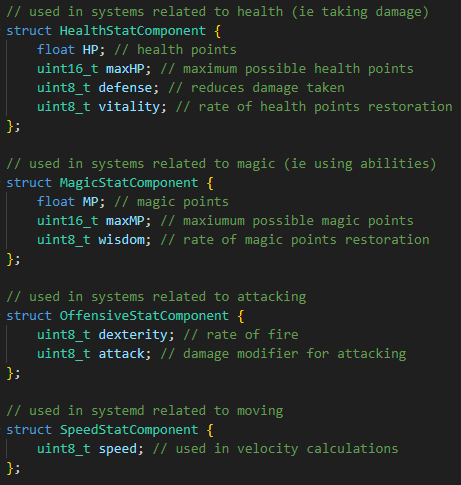
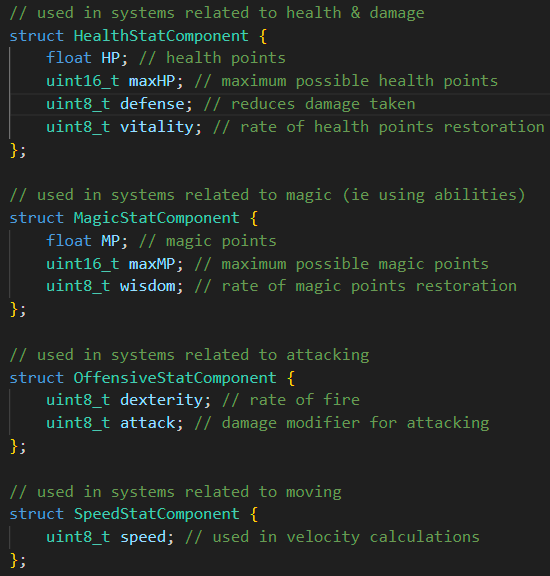
vecorization draft

diff --git a/src/components/Rotmgabe.jsx b/src/components/Rotmgabe.jsx
@@ -22,7 +22,7 @@ export const Rotmgabe = ({ className, visible }) => {
             <div className="passage-text">
                 The core of this project is an implementation of the Entity-Component-System (<a className="hover-image-text" href="https://en.wikipedia.org/wiki/Entity_component_system" target="_blank" rel="noopener noreferrer">ECS</a>) architectural pattern.
                 In this pattern, the game is composed of <strong>entities</strong> that have <strong>components</strong> with mutable states, which are updated by various <strong>systems</strong>.
-                This unqiue design optimizes CPU memory access, allowing the game to sustain hundreds of frames per second even under high computational load.
+                This unique design optimizes CPU memory access, allowing the game to sustain hundreds of frames per second even under high computational load.
                 Most professional game engines use ECS.
             </div>
             <div className="grid grid-cols-2 items-center justify-around gap-2">
@@ -58,7 +58,7 @@ export const Rotmgabe = ({ className, visible }) => {
             </div>
             <div className="flex flex-row items-center justify-center gap-22">
                 <div className="flex flex-col items-center justify-center gap-1">
-                    <div className="passage-text">Here is a visualization of the component pools. Notice how there is a pool for each type of component, and that each cell of a pool holds the component for a given entitiy.</div>
+                    <div className="passage-text">Here is a visualization of the component pools. Notice how there is a pool for each type of component, and that each cell of a pool holds the component for a given entity.</div>
                     <img className="rounded-image" src="/pools.drawio(1).png"></img>
                 </div>
             </div>
@@ -67,14 +67,14 @@ export const Rotmgabe = ({ className, visible }) => {
             </div>
             <div className="flex flex-col items-center justify-center gap-1">
                 <div className="passage-text">
-                    Component signatures are bitsets indexable by component id's.
+                    Component signatures are bitsets indexable by component id's:
                 </div>
                 <img className="rounded-image" src="/signature.png"></img>
                 <img className="rounded-image" src="/signatures.png"></img>
             </div>
             <div className="passage-text">
-                To exemplify pool access, here is sample code for adding a component to an entity (we simply add the component to the pool)
-                First, the component id is used to find the correct pool. Then the entity id and component data are passed to the pool, which inserts the component and records the location for later retrieval for this entity. We also update the entity's component signature: 
+                To exemplify pool access, here is sample code for adding a component to an entity.
+                First, the component id is used to find the correct pool. Then, the entity id and component data are passed to the pool, which inserts the component and records the location for later retrieval for this entity. We also update the entity's component signature: 
                 <img className="rounded-image" src="/addcomponent.png"></img>
             </div>
             <div className="passage-text">
@@ -101,7 +101,7 @@ export const Rotmgabe = ({ className, visible }) => {
                 As you can see, even if entities differ conceptually, they may still share a common subset of components.
             </div>
             <div className="passage-text">
-                This brings us to the system part of ECS, of which are responsible for updating the data in the components of entities. Systems are specialized and isolated, performing specific updates only for a specific group of entities. Each system maintains its own component signature, which serves as a set of requirements for being processed— If an entity's component signature contains all the components in the system's signature, it will be tracked and processed. All systems perform their updates each frame on every entity that they track: 
+                This brings us to the systems part of ECS, which are responsible for updating the data in components. Systems are specialized and isolated, performing specific updates only for a specific group of entities. Each system maintains its own component signature, which serves as a set of requirements for being processed— If an entity's component signature contains all the components in the system's signature, it will be tracked and processed. All systems perform their updates each frame on every entity that they track: 
             </div>
             <div className="flex flex-row items-center justify-center gap-22">
                 <div className="flex flex-col items-center justify-center gap-1">
@@ -131,7 +131,7 @@ export const Rotmgabe = ({ className, visible }) => {
             <div className="grid grid-cols-[55%_45%] items-center justify-center gap-8">
                 <div className="flex flex-col items-center justify-center gap-1">
                     <div className="passage-text">
-                        Here is an example of a movement system. From our entity examples above, only the projectile entity would be tracked by this system because only it has both the required position and velocity components:
+                        Here is an example of a linear movement system. From our entity examples above, only the projectile entity would be tracked by this system because only it has both the required position and velocity components:
                     </div>
                     <img className="rounded-image" src="/movementsystem.png"></img>
                 </div>
@@ -154,28 +154,50 @@ export const Rotmgabe = ({ className, visible }) => {
                     Contiguous component pools provide spatial and temporal locality during system updates. When a system reads a component for an entity, it actually loads an entire cache line (usually 64 bytes) of contiguous data from RAM into the CPU cache. Given that systems update all of their entities each frame, fetching components often results in cache hits because that data has already been loaded into the CPU cache, which is orders of magnitude faster than getting the data from RAM in the case of a cache miss.
                 </div>
                 <div className="passage-text">
-                    With this in mind, components are designed to be as small as possible. Smaller components mean more of them fit into a single cache line, maximizing the amount of useful data loaded into the CPU cache at once. Additionally, components are structured around system access patterns—ideally, to reduce cache misses, all the data in a component will be needed whenever it is loaded from memory. To illustrate this, I'll show how a player-statistics component would be designed in an object-oriented approach and constrast it with a data-oriented approach.
+                    With this in mind, components are designed to be as small as possible. Smaller components mean more of them fit into a single cache line, maximizing the amount of useful data loaded into the CPU cache at once. Additionally, components are structured around system access patterns—ideally, to reduce cache misses, all the data in a component will be needed whenever it is loaded from memory. To illustrate this, I'll show how a player-statistics component would be designed in an object-oriented approach and contrast it with a data-oriented approach:
                 </div>
                 <div className="grid grid-cols-2 items-start justify-center gap-12">
                     <div className="flex flex-col items-center justify-center gap-1">
-                        <div className="passage-text font-bold">Object-Oritented Design:</div>
+                        <div className="passage-text font-bold">Object-Oriented Design:</div>
                         <div className="passage-text">In Object-Oriented Design, we organize and add data fields to classes to represent real world objects or concepts that are intuitive for humans:</div>
                         <img className="rounded-image" src="/OOPstats.png"></img>
                     </div>
                     <div className="flex flex-col items-center justify-center gap-1">
-                        <div className="passage-text font-bold">Data-Oritented Design:</div>
+                        <div className="passage-text font-bold">Data-Oriented Design:</div>
                         <div className="passage-text">In Data-Oriented Design, we organize and add data fields to structs based on the temporal and spatial locality of the fields, and keep size as low as possible:</div>
                         <img className="rounded-image" src="/DODstats.png"></img>
                     </div>
                 </div>
                 <div className="passage-text">
-                    As you can see, the data-oriented approach favors breaking large structs into smaller, focused ones. This isn’t a criticism of object-oriented programming, but rather an observation that data-oriented design offers better performance in the context of ECS.
+                    As you can see, the data-oriented approach favors breaking large structs into smaller, focused ones. This isn't a criticism of object-oriented programming, but rather an observation that data-oriented design offers better performance in the context of ECS.
                 </div>
             </div>
             <div className="flex flex-col items-center justify-center gap-4">
-                <BaseCard title="2) Vectorization"></BaseCard>
+                <BaseCard title="2) Auto-Vectorization & Branch Predictability"></BaseCard>
                 <div className="passage-text">
-                    Blah Blah Blah 
+
+                    -- explain auto-vectorization (can only happen if the next x iterations are also the next x in contiguous memory.)
+                    -- explain compiler dependence, gather operations hurt this, performance tradeoffs, different ecs implementations
+                    -- explain branch predictability, simplicity of system bodies
+                    -- NEED TO SEE IF MY IMPLEMENTATION IS LOADING SIMD INSTRUCTIONS!!! COMPILE IT AND LOOK
+                    <br></br>
+                    <br></br>
+                    early draft to take ideas from, but use above:
+                    Systems are designed to perform their updates by iterating over contiguous memory with minimal logic to allow for auto-vectorization and improved branch predictability.
+                    When we load from contiguous memory with compiler optimizations, the compiler is likely to load data into single-instruction-multiple-data (SIMD) registers, which can perform instructions on multiple pieces of data at the same time.
+
+
+                </div>
+                <div className="passage-text">
+                    Additionally, keeping system logic simple allows the CPU's branch predictor to operate more effectively. 
+                </div>
+                <div className="passage-text">                   
+                    idToIndex hurts vectorization, mention this. oh well 
+                    vectorization can only happen if the next x iterations are also the next x in contiguous memory.
+                    data[entityIdToIndex[i]] is effectively a gather: the elements could be anywhere in memory. Compilers often don’t auto-vectorize gather patterns unless they’re confident the hardware supports fast SIMD gathers.
+                </div>
+                <div className="passage-text">
+                    compare a movement system with different branching for oscillating, parabolic, boomerang, compare to all of those being isolated
                 </div>
             </div>
             <div className="flex flex-col items-center justify-center gap-4">
@@ -185,6 +207,9 @@ export const Rotmgabe = ({ className, visible }) => {
                 </div>
             </div>
             <div className="passage-text">
+                Short passage about how performance is hardware dependent and always a tradeoff (performance lottery). Also maybe something about GPU?
+            </div>
+            <div className="passage-text">
                 game loop
                 Registry: entity id mgmt, killing/creating entities, data hole filling (remove component), managing pools
                 numeric types
@@ -192,6 +217,7 @@ export const Rotmgabe = ({ className, visible }) => {
                 branch predictability
                 enums
                 initializer lists
+                SoA, AoS. SoA better usually
             </div>
             <img className="rounded-image w-[50%]" src="/memoryhole.drawio.png"></img>
             <div className="passage-text">

diff --git a/src/components/Work.jsx b/src/components/Work.jsx
@@ -5,7 +5,7 @@ export const Work = () => {
                 <div className="passage-text-header">Work Experience</div>
                 <div className="passage-text">
                     Since 2024, I have been working for <a className="hover-image-text" href="https://ardx.net/" target="_blank" rel="noopener noreferrer">ARDX</a>, a CMMI-SVC level 5 management and technology consulting firm that serves as an Application Development Organization (ADO) for the Centers for Medicare & Medicaid Services (CMS).
-                    As a software developer, my primary responsibilty is maintaining and developing REGTAP, our federal web application which supports over 180,000 users. 
+                    As a software developer, my primary responsibility is maintaining and developing REGTAP, our federal web application which supports over 180,000 users. 
                 </div>
                 <img className="full-image" src='/REGTAP.png'></img>
                 <div className="passage-text">

diff --git a/src/index.css b/src/index.css
@@ -133,7 +133,7 @@ html, body {
       transform: translateX(250%);
     }
   }
-  .animate-loading-bar { /*applied to the blue background div that moves accross the loading bar in LoadingScreen.jsx*/
+  .animate-loading-bar { /*applied to the blue background div that moves across the loading bar in LoadingScreen.jsx*/
     animation: loading 0.8s ease infinite;
   }
 }

diff --git a/codeExamples/DOD.cpp b/codeExamples/DOD.cpp
@@ -133,9 +133,9 @@ struct SpriteComponent {
 };
 
 // for linear movement
-class MovementSystem: public System {
+class LinearMovementSystem: public System {
 public:
-    MovementSystem() {
+    LinearMovementSystem() {
         // on construction build the system's component signature
         RequireComponent<PositionComponent>();
         RequireComponent<VelocityComponent>();
@@ -186,20 +186,22 @@ int main(){
 
 // bundled together to represent a human friendly concept
 class PlayerStats {
-public:
+private:
     double HP; // health points
     double MP; // magic points
     int maxHP; // maximum possible health points
-    int maxMP; // maxiumum possible magic points
+    int maxMP; // maximum possible magic points
     int defense; // reduces damage taken
     int wisdom; // rate of magic points restoration
     int vitality; // rate of health points restoration
     int speed; // used in velocity calculations
     int dexterity; // rate of fire
     int attack; // damage modifier for attacking
+public:
+    // accessor & mutator methods
 };
 
-// used in systems related to health (ie taking damage)
+// used in systems related to health & damage
 struct HealthStatComponent {
     float HP; // health points
     uint16_t maxHP; // maximum possible health points
@@ -210,7 +212,7 @@ struct HealthStatComponent {
 // used in systems related to magic (ie using abilities)
 struct MagicStatComponent {
     float MP; // magic points
-    uint16_t maxMP; // maxiumum possible magic points
+    uint16_t maxMP; // maximum possible magic points
     uint8_t wisdom; // rate of magic points restoration
 };
 
@@ -220,7 +222,7 @@ struct OffensiveStatComponent {
     uint8_t attack; // damage modifier for attacking
 };
 
-// used in systemd related to moving
+// used in systems related to moving
 struct SpeedStatComponent {
     uint8_t speed; // used in velocity calculations
 };
